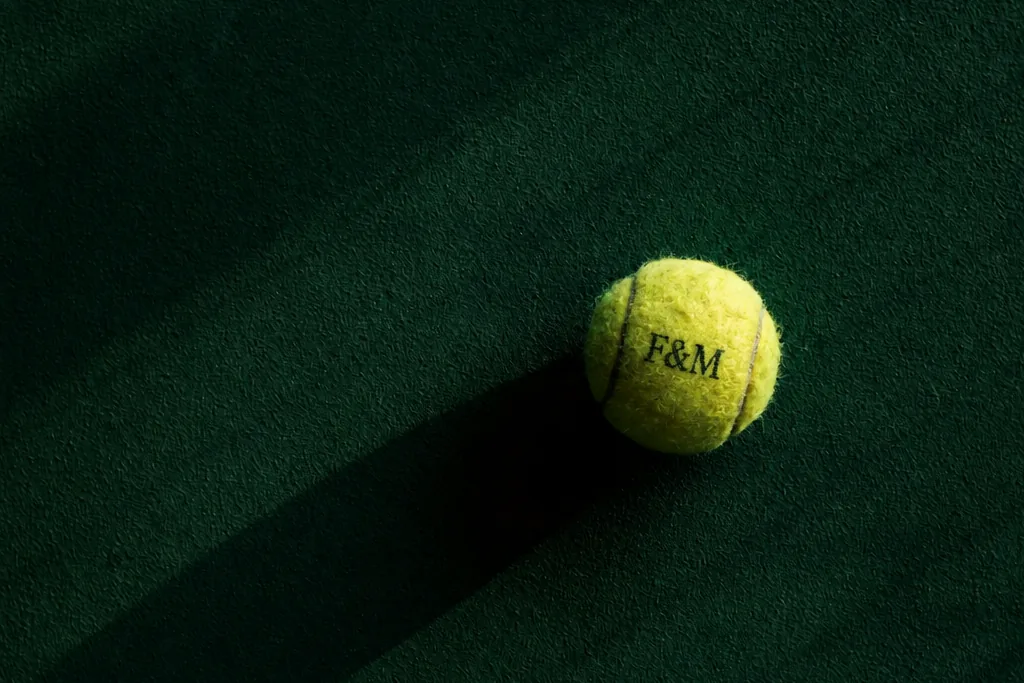
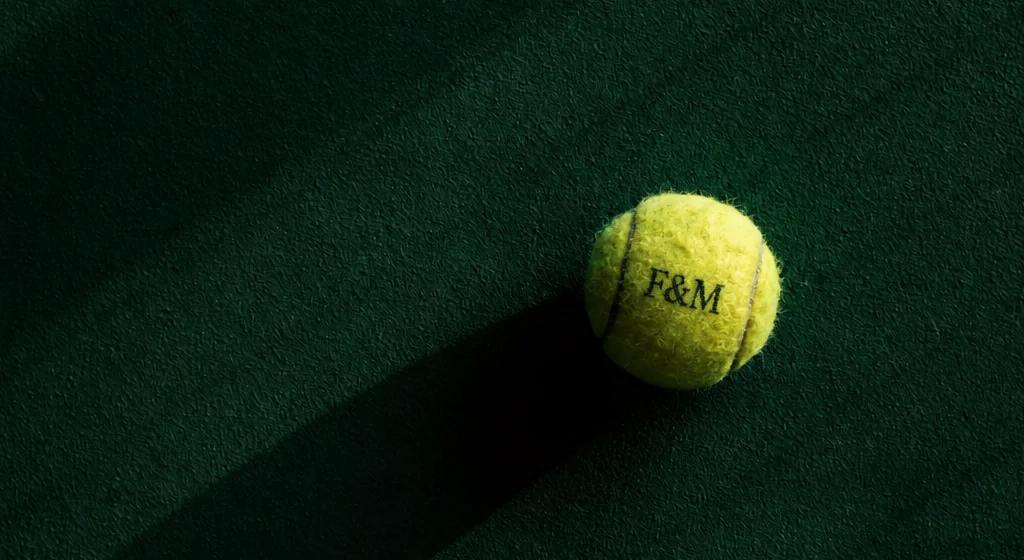
CTA com a bola F&M sem ampliar; nome do Eduardo confirmado
- CTA final: a foto (1024px) deixa de cobrir a secao inteira, que a
  ampliava e borrava. Fica ancorada a direita, na altura da secao,
  com recorte mais aberto, e se dissolve no petroleo-900 pela esquerda.
- Socio confirmado como Eduardo Friedrich.

diff --git a/src/components/sections/CtaFinal.tsx b/src/components/sections/CtaFinal.tsx
@@ -3,11 +3,12 @@ import { WhatsappLogo } from "@phosphor-icons/react/dist/ssr";
 import { ctaFinal } from "@/lib/conteudo";
 import { whatsappUrl } from "@/lib/site";
 
-/* CTA final sobre a foto da bola F&M na quadra verde (decorativa). A
-   bola fica a direita e o texto na metade esquerda, sobre um degrade
-   petroleo-900 que garante o contraste. A foto nao pode ser espelhada
-   (a marca na bola inverteria). No mobile, veu uniforme e texto por
-   cima. */
+/* CTA final com a foto da bola F&M na quadra verde (decorativa). A foto
+   tem so 1024px de largura, entao nao cobre a secao inteira (ficaria
+   ampliada e borrada): fica ancorada a direita, na altura da secao, e
+   se dissolve no petroleo-900 pela esquerda (mask-image). Texto na
+   metade esquerda. A foto nao pode ser espelhada (a marca na bola
+   inverteria). No mobile, veu escuro por cima para o texto. */
 
 export default function CtaFinal() {
   return (
@@ -18,13 +19,14 @@ export default function CtaFinal() {
       <Image
         src={ctaFinal.foto}
         alt=""
-        fill
-        sizes="100vw"
-        className="-z-10 object-cover object-[70%_50%]"
+        width={1024}
+        height={560}
+        sizes="(min-width: 48rem) 64rem, 100vw"
+        className="absolute inset-y-0 right-0 -z-10 h-full w-auto max-w-none mask-[linear-gradient(to_right,transparent,#000_40%)]"
       />
       <div
         aria-hidden
-        className="absolute inset-0 -z-10 bg-petroleo-900/75 md:bg-transparent md:bg-linear-to-l md:from-petroleo-900/10 md:via-petroleo-900/65 md:to-petroleo-900/95"
+        className="absolute inset-0 -z-10 bg-petroleo-900/70 md:hidden"
       />
       <div className="container-content grid md:grid-cols-2">
         <div>

diff --git a/src/lib/conteudo.ts b/src/lib/conteudo.ts
@@ -233,12 +233,10 @@ export const equipe = {
   titulo: "Quem organiza",
   pessoas: [
     {
-      /* O briefing diz "Eduardo Ivan"; a versao anterior da pagina dizia
-         "Eduardo Friedrich". */
-      nome: "Eduardo [CONFIRMAR nome completo: Ivan ou Friedrich?]",
+      nome: "Eduardo Friedrich",
       linha: "[CONFIRMAR: uma linha sobre o Eduardo]",
       instagram: { handle: "@edufriedrich_", url: "https://instagram.com/edufriedrich_" },
-      foto: { src: "/fotos/eduardo.webp", alt: "Eduardo, da F&M, com uma raquete de Padel na quadra" },
+      foto: { src: "/fotos/eduardo.webp", alt: "Eduardo Friedrich, da F&M, com uma raquete de Padel na quadra" },
     },
     {
       nome: "João Eduardo Moraes Maneck",

diff --git a/docs/REVISAO_FINAL.md b/docs/REVISAO_FINAL.md
@@ -16,7 +16,7 @@ Briefing preenchido por João Maneck em 13/10/2026 (ver `fm-ajustes-briefing.md`
 
 ### Confirmar com a F&M
 - [ ] **WhatsApp (55) 98170-0001**: foi escrito como "5598170-0001" e termina em 0001. Testar o link num celular real.
-- [ ] **Nome completo do Eduardo**: o briefing diz "Eduardo Ivan", a versão anterior da página dizia "Eduardo Friedrich".
+- [x] **Nome do Eduardo**: confirmado como Eduardo Friedrich.
 - [ ] **Preços públicos**: autorização para publicar R$ 1.000 e R$ 2.000. Hoje `exibirPrecos` está desligado em `src/data/config.ts` (planos mostram "Sob orçamento").
 - [ ] **Mesa e arbitragem**: "mesa, tomada próxima e caixa de som" é o que a F&M leva ou o que o clube precisa ter?
 - [ ] **Plano presencial**: quem opera a mesa no dia, a F&M ou a equipe do clube?
